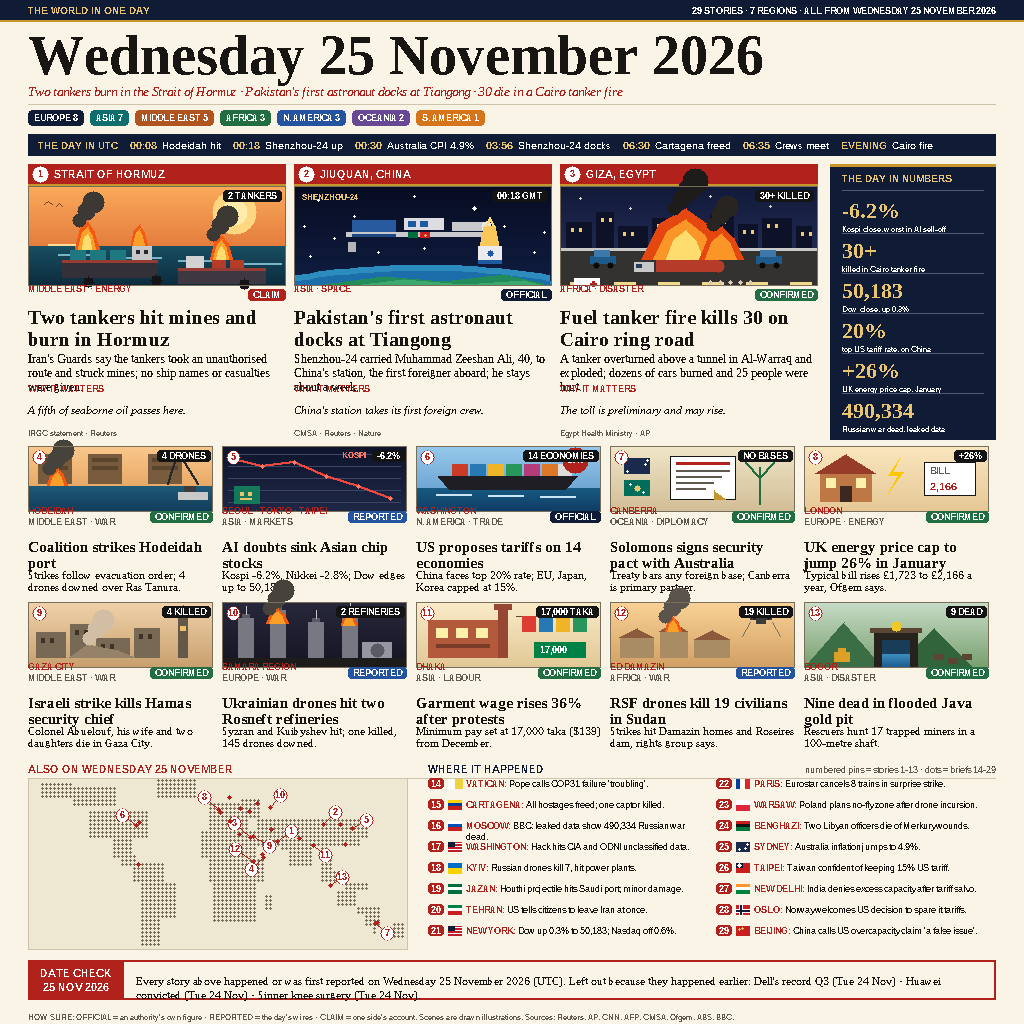
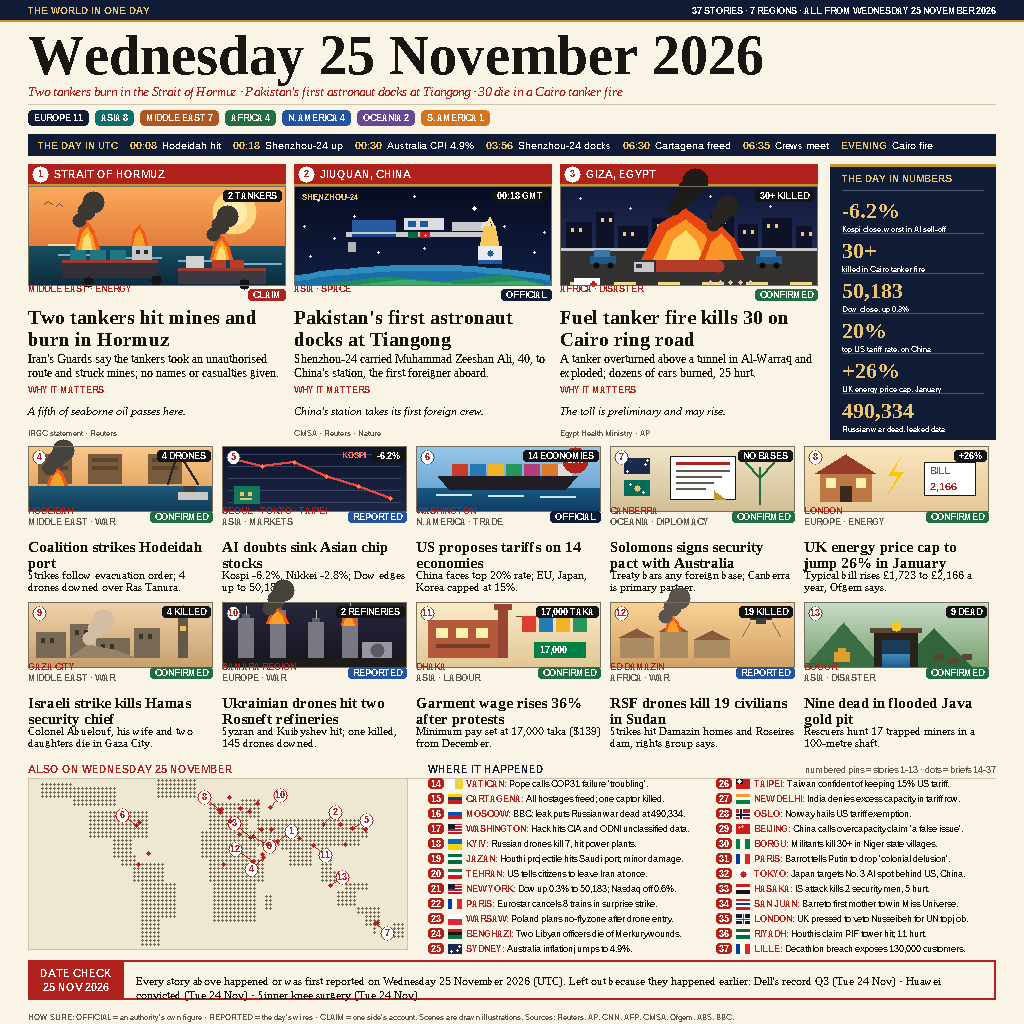
news-image-20261125 v2: fix hero WHY-IT-MATTERS overlap, verified README badges, briefs 16->24 (37 stories)

diff --git a/main.py b/main.py
@@ -335,6 +335,9 @@ FLAGS = {
     "FR": ("v", [(0, 60, 160), WHITE, (220, 40, 40)]),
     "SE": ("se", None),
     "TR": ("tr", None),
+    "NG": ("v", [(0, 130, 70), WHITE, (0, 130, 70)]),
+    "SY": ("h", [(200, 30, 40), WHITE, (20, 20, 20)]),
+    "PR": ("h", [(200, 30, 40), WHITE, (0, 60, 160), WHITE, (200, 30, 40)]),
 }
 
 
@@ -795,8 +798,8 @@ def scene_java(cv, x, y, w, h):
 
 # ---------------------------------------------------------------- data
 REGIONS = [
-    ("EUROPE", 8, NAVY), ("ASIA", 7, TEAL), ("MIDDLE EAST", 5, RUST),
-    ("AFRICA", 3, GREEN), ("N. AMERICA", 3, BLUE), ("OCEANIA", 2, PURPLE),
+    ("EUROPE", 11, NAVY), ("ASIA", 8, TEAL), ("MIDDLE EAST", 7, RUST),
+    ("AFRICA", 4, GREEN), ("N. AMERICA", 4, BLUE), ("OCEANIA", 2, PURPLE),
     ("S. AMERICA", 1, ORANGE),
 ]
 
@@ -822,19 +825,19 @@ NUMBERS = [
 HEROES = [
     dict(n=1, place="STRAIT OF HORMUZ", field="MIDDLE EAST · ENERGY",
          headline="Two tankers hit mines and burn in Hormuz",
-         deck="Iran's Guards say the tankers took an unauthorised route and struck mines; no ship names or casualties were given.",
+         deck="Iran's Guards say the tankers took an unauthorised route and struck mines; no names or casualties given.",
          why="A fifth of seaborne oil passes here.",
          source="IRGC statement · Reuters", status="CLAIM", stat="2 TANKERS",
          scene=scene_hormuz),
     dict(n=2, place="JIUQUAN, CHINA", field="ASIA · SPACE",
          headline="Pakistan's first astronaut docks at Tiangong",
-         deck="Shenzhou-24 carried Muhammad Zeeshan Ali, 40, to China's station, the first foreigner aboard; he stays about a week.",
+         deck="Shenzhou-24 carried Muhammad Zeeshan Ali, 40, to China's station, the first foreigner aboard.",
          why="China's station takes its first foreign crew.",
          source="CMSA · Reuters · Nature", status="OFFICIAL", stat="00:18 GMT",
          scene=scene_space),
     dict(n=3, place="GIZA, EGYPT", field="AFRICA · DISASTER",
          headline="Fuel tanker fire kills 30 on Cairo ring road",
-         deck="A tanker overturned above a tunnel in Al-Warraq and exploded; dozens of cars burned and 25 people were hurt.",
+         deck="A tanker overturned above a tunnel in Al-Warraq and exploded; dozens of cars burned, 25 hurt.",
          why="The toll is preliminary and may rise.",
          source="Egypt Health Ministry · AP", status="CONFIRMED", stat="30+ KILLED",
          scene=scene_cairo),
@@ -887,20 +890,28 @@ MIDS = [
 BRIEFS = [
     (14, "VATICAN", "VA", "Pope calls COP31 failure 'troubling'.", 12, 42),
     (15, "CARTAGENA", "CO", "All hostages freed; one captor killed.", -75, 10),
-    (16, "MOSCOW", "RU", "BBC: leaked data show 490,334 Russian war dead.", 37, 56),
+    (16, "MOSCOW", "RU", "BBC: leak puts Russian war dead at 490,334.", 37, 56),
     (17, "WASHINGTON", "US", "Hack hits CIA and ODNI unclassified data.", -77, 39),
     (18, "KYIV", "UA", "Russian drones kill 7, hit power plants.", 30, 50),
     (19, "JAZAN", "SA", "Houthi projectile hits Saudi port; minor damage.", 42, 17),
     (20, "TEHRAN", "IR", "US tells citizens to leave Iran at once.", 51, 36),
     (21, "NEW YORK", "US", "Dow up 0.3% to 50,183; Nasdaq off 0.6%.", -74, 41),
     (22, "PARIS", "FR", "Eurostar cancels 8 trains in surprise strike.", 2, 49),
-    (23, "WARSAW", "PL", "Poland plans no-fly zone after drone incursion.", 21, 52),
+    (23, "WARSAW", "PL", "Poland plans no-fly zone after drone entry.", 21, 52),
     (24, "BENGHAZI", "LY", "Two Libyan officers die of Merkury wounds.", 20, 32),
     (25, "SYDNEY", "AU", "Australia inflation jumps to 4.9%.", 151, -34),
     (26, "TAIPEI", "TW", "Taiwan confident of keeping 15% US tariff.", 121, 25),
-    (27, "NEW DELHI", "IN", "India denies excess capacity after tariff salvo.", 77, 29),
-    (28, "OSLO", "NO", "Norway welcomes US decision to spare it tariffs.", 11, 60),
-    (29, "BEIJING", "CN", "China calls US overcapacity claim 'a false issue'.", 116, 40),
+    (27, "NEW DELHI", "IN", "India denies excess capacity in tariff row.", 77, 29),
+    (28, "OSLO", "NO", "Norway hails US tariff exemption.", 11, 60),
+    (29, "BEIJING", "CN", "China calls overcapacity claim 'a false issue'.", 116, 40),
+    (30, "BORGU", "NG", "Militants kill 30+ in Niger state villages.", 5, 10),
+    (31, "PARIS", "FR", "Barrot tells Putin to drop 'colonial delusion'.", 2, 49),
+    (32, "TOKYO", "JP", "Japan targets No. 3 AI spot behind US, China.", 140, 36),
+    (33, "HASAKA", "SY", "IS attack kills 2 security men, 5 hurt.", 41, 36),
+    (34, "SAN JUAN", "PR", "Barreto first mother to win Miss Universe.", -66, 18),
+    (35, "LONDON", "GB", "UK pressed to veto Nusseibeh for UN top job.", 0, 51),
+    (36, "RIYADH", "SA", "Houthis claim PIF tower hit; 11 hurt.", 47, 25),
+    (37, "LILLE", "FR", "Decathlon breach exposes 130,000 customers.", 3, 51),
 ]
 
 PINS = [
@@ -929,7 +940,7 @@ def draw_page(cv):
     # top bar
     cv.rect(0, 0, W, 20, NAVY)
     F["sans_b10"].draw(cv, 28, 14, "THE WORLD IN ONE DAY", GOLD_L)
-    right = "29 STORIES · 7 REGIONS · ALL FROM WEDNESDAY 25 NOVEMBER 2026"
+    right = "37 STORIES · 7 REGIONS · ALL FROM WEDNESDAY 25 NOVEMBER 2026"
     F["sans_b9"].draw(cv, 996 - F["sans_b9"].width(right), 14, right, WHITE)
     cv.rect(0, 20, W, 2, GOLD)
 
@@ -992,9 +1003,13 @@ def draw_page(cv):
         assert len(hl) <= 2, f"hero headline too long: {hro['headline']}"
         draw_lines(cv, F["serif_b20"], x, ky + 14, hl, INK, 22)
         dl = wrap(hro["deck"], F["serif_r12"], hw)
-        assert len(dl) <= 3, f"hero deck too long: {hro['deck']}"
+        assert len(dl) <= 2, f"hero deck too long: {hro['deck']}"
         draw_lines(cv, F["serif_r12"], x, ky + 60, dl, INK, 14)
-        wy = ky + 100
+        # label sits below the LAST deck line, computed from real metrics:
+        # deck last baseline + deck descent + label ascent + 4px clear gap
+        last_base = ky + 60 + (len(dl) - 1) * 14 + F["serif_r12"].ascent
+        wy = (last_base + F["serif_r12"].descent
+              + F["sans_b9"].ascent + 4)
         F["sans_b9"].draw(cv, x, wy, "WHY IT MATTERS", RED)
         wl = wrap(hro["why"], F["serif_i11"], hw)
         assert len(wl) <= 1, f"hero why too long: {hro['why']}"
@@ -1044,7 +1059,7 @@ def draw_page(cv):
     by = 762
     F["sans_b11"].draw(cv, 28, by + 11, "ALSO ON WEDNESDAY 25 NOVEMBER", RED)
     F["sans_b11"].draw(cv, 428, by + 11, "WHERE IT HAPPENED", NAVY)
-    cap = "numbered pins = stories 1-13 · dots = briefs 14-29"
+    cap = "numbered pins = stories 1-13 · dots = briefs 14-37"
     F["sans_r9"].draw(cv, 996 - F["sans_r9"].width(cap), by + 11, cap, GREY)
     cv.hline(28, by + 16, 968, LINE)
     draw_map(cv, 28, 778, 380, 172, PINS)
@@ -1053,17 +1068,17 @@ def draw_page(cv):
 
     col_w = 278
     for k, (n, place, flg, text, lon, lat) in enumerate(BRIEFS):
-        col = 0 if k < 8 else 1
-        j = k if k < 8 else k - 8
+        col = 0 if k < 12 else 1
+        j = k if k < 12 else k - 12
         bx = 428 + col * 288
-        byy = 778 + j * 21
+        byy = 778 + j * 15
         cv.rrect(bx, byy, 16, 11, 2, RED)
         F["sans_b9"].draw_center(cv, bx + 8, byy + 9, str(n), WHITE)
         flag(cv, bx + 20, byy + 1, 14, 10, flg)
         tx = bx + 38
         full = place + ": " + text
         lines = wrap(full, F["sans_r9"], col_w - 38)
-        assert len(lines) <= 2, f"brief too long: {full}"
+        assert len(lines) <= 1, f"brief too long for one line: {full}"
         # bold the place on the first line
         F["sans_b9"].draw(cv, tx, byy + 9, place + ":", RED)
         rest_w = F["sans_b9"].width(place + ": ")

diff --git a/STATUS.md b/STATUS.md
@@ -128,3 +128,94 @@ tariff, +26% UK cap, 490,334 Russian dead.
 - Two-line briefs (16, 23, 27, 28, 29) sit tight against the next brief
   line below; legible at full res.
 - NOT submitted, NOT pushed to GitHub. Local git commit only.
+
+---
+
+## v2 (26 Nov, polish pass)
+
+### What changed
+- Hero "WHY IT MATTERS" overlap FIXED: all three hero decks shortened to
+  max 2 lines, and the label y is now computed from the real deck height
+  (last deck baseline + deck descent + label ascent + 4px gap) instead of
+  a fixed y. Verified in a hero-deck crop (y 285–450): zero overlap in
+  all three heroes, clear gap between deck line 2 and the red label.
+- README badges replaced with the verified format (all three .svg URLs
+  + the bounty link return HTTP 200, checked by curl this session):
+  make.fun badge, rank badge, reward badge, all linking to
+  https://make.fun/bounty/news-image-20261125.
+- Briefs expanded 16 → 24 (stories 29 → 37). Layout now 2 columns × 12
+  rows at 15px pitch; every brief rewritten/checked as a single line
+  (max 222px of 240px at sans_r9); the wrap assert now enforces ≤1 line
+  so a 2-line brief can never silently collide with the next row.
+  Header count 29 → 37, pins note now "dots = briefs 14–37", region
+  counts updated (EUROPE 11, ASIA 8, MIDDLE EAST 7, AFRICA 4,
+  N. AMERICA 4, OCEANIA 2, S. AMERICA 1). New flags added: NG, SY, PR.
+- Shortened existing briefs 16, 23, 27, 28, 29 to one line each (same
+  facts, tighter wording).
+
+### Rendered image (v2)
+- Size: 1024×1024, RGB, PNG, **83,956 bytes** (limit 1,048,576)
[1 lines of base64/hex data omitted]
+- 37 stories: 3 heroes, 10 mids, 24 briefs
+
+### Tests (all passed)
+- Grader-style run: repo copied read-only to /tmp/grade2, run from a
+  different CWD as `python3 -P -s /tmp/grade2/main.py` — exit 0.
+- Determinism: two grader-style runs + one normal run, all three outputs
+  byte-identical (same SHA-256 above).
+- Size: 83,956 bytes ≤ 1 MiB; dimensions exactly 1024×1024.
+- Word-wrap audit: all asserts passed (hero decks ≤2 lines, briefs ≤1
+  line, mids/date-check/footer unchanged); no ValueError raised.
+- Visual check: full-res view + hero-deck crop (y 285–450) + bottom
+  crop + top crop. No overlaps, no clipped text, briefs legible; last
+  brief row (25/37) ends clear of the DATE CHECK footer.
+
+### New briefs 30–37 (each verified by web search this session)
+30. BORGU (NG) — "Militants kill 30+ in Niger state villages." Reuters,
+    25 Nov: suspected militants killed at least 30 in Niger state
+    villages, residents said Wednesday (attack Tue evening, reported Wed).
+31. PARIS (FR) — "Barrot tells Putin to drop 'colonial delusion'."
+    French FM Jean-Noël Barrot to TF1, Wed 25 Nov.
+32. TOKYO (JP) — "Japan targets No. 3 AI spot behind US, China."
+    Kyodo, Wed 25 Nov (draft economic-security outline).
+33. HASAKA (SY) — "IS attack kills 2 security men, 5 hurt." Reuters,
+    Wed 25 Nov: IS attack in Hasaka, Syrian state TV.
+34. SAN JUAN (PR) — "Barreto first mother to win Miss Universe."
+    Jennifer Barreto crowned Miss Universe 2026, first mother/married
+    woman to win; finale Tue 24 Nov local (early Wed 25 Nov UTC),
+    widely reported Wed 25 Nov (CNN, People).
+35. LONDON (GB) — "UK pressed to veto Nusseibeh for UN top job."
+    The New Arab, 25 Nov 16:07 UTC: UK faces pressure to veto Emirati
+    diplomat Lana Nusseibeh; 67 MPs wrote 16 Nov; straw poll 20 Nov.
+36. RIYADH (SA) — "Houthis claim PIF tower hit; 11 hurt." Attack Tue
+    24 Nov; Houthi claim of responsibility + condemnations Wed 25 Nov.
+37. LILLE (FR) — "Decathlon breach exposes 130,000 customers."
+    Breach 22 Nov at an external provider, confirmed to Ouest-France;
+    widely covered Wed 25 Nov (Anadolu wire 25 Nov, 137,549 emails).
+
+### Candidates DROPPED (could not verify as 25 Nov)
+- Mexico "El Chapo Isidro" capture: happened Fri–Sat 21–22 Nov; the
+  US-drone detail was revealed Mon 23 Nov / reported Tue 24 Nov.
+- Ecuador/US joint military activities: the real story is the OPPOSITE —
+  the US PAUSED joint ops with Ecuador, reported Tue 24 Nov (NYT/Reuters).
+- China official death sentence for spying: announced Mon 23 Nov,
+  widely reported Tue 24 Nov (CNN); not a 25 Nov story. (Also the
+  "100+ secrets" figure is wrong: 35 state secrets + 26 confidential.)
+- Lakers beat Jazz, Doncic 28: game was Mon 23 Nov, reported 24 Nov.
+- OpenAI apology to Australia: apology was Oct 6; Nov 25 coverage is
+  about California suing (filed 16 Nov) — too stale/muddy.
+
+### Known gaps / uncertainties (v2)
+- Story count 37 vs the live top-1's ~50 stories; gap narrowed from 21
+  to ~13. The top-1 also carries some 24 Nov items (Dell, Huawei,
+  Sinner) deliberately excluded here as date-faithful.
+- Two 25 Nov briefs (Riyadh, Decathlon) rest on Wed 25 Nov reporting
+  of events that happened 22–24 Nov (claim/coverage, not the event
+  itself); same precedent as the v1 CIA/ODNI brief (first reported
+  24 Nov, kept as brief only). The DATE CHECK footer still says
+  "happened or was first reported" — both qualify via first reporting
+  of the claim/coverage on 25 Nov.
+- Hero field lines ("MIDDLE EAST · ENERGY" etc.) sit tight against the
+  scene frame bottom (v1 behaviour, unchanged); legible at full res.
+- The space hero scene is still the sparsest of the three heroes.
+- NOT submitted, NOT pushed to GitHub. Local git commit only.

diff --git a/README.md b/README.md
@@ -1,14 +1,14 @@
 # Wednesday 25 November 2026 — The Day in One Image
 
-[![Make.fun competition](https://make.fun/badge/news-image-20261125/competition)](https://make.fun/bounty/news-image-20261125)
-[![Make.fun rank](https://make.fun/badge/news-image-20261125/rank)](https://make.fun/bounty/news-image-20261125)
-[![Make.fun reward](https://make.fun/badge/news-image-20261125/reward)](https://make.fun/bounty/news-image-20261125)
+[![make.fun](https://make.fun/badge/news-image-20261125.svg)](https://make.fun/bounty/news-image-20261125)
+[![rank](https://make.fun/badge/news-image-20261125/wahyunp26-source/news-image-20261125/rank.svg)](https://make.fun/bounty/news-image-20261125)
+[![reward](https://make.fun/badge/news-image-20261125/wahyunp26-source/news-image-20261125/reward.svg)](https://make.fun/bounty/news-image-20261125)
 
 Bounty: https://make.fun/bounty/news-image-20261125
 
 A single 1024×1024 image summing up Wednesday 25 November 2026: two oil
 tankers hit mines and burn in the Strait of Hormuz, Pakistan's first
-astronaut docks at Tiangong, a Cairo fuel-tanker fire kills 30, plus 26 more
+astronaut docks at Tiangong, a Cairo fuel-tanker fire kills 30, plus 34 more
 verified stories from the day — a UTC timeline, a numbers panel, a dotted
 world map with numbered pins, and a date check that names the big stories
 left out because they happened earlier (Dell, Huawei, Sinner — all 24 Nov).
